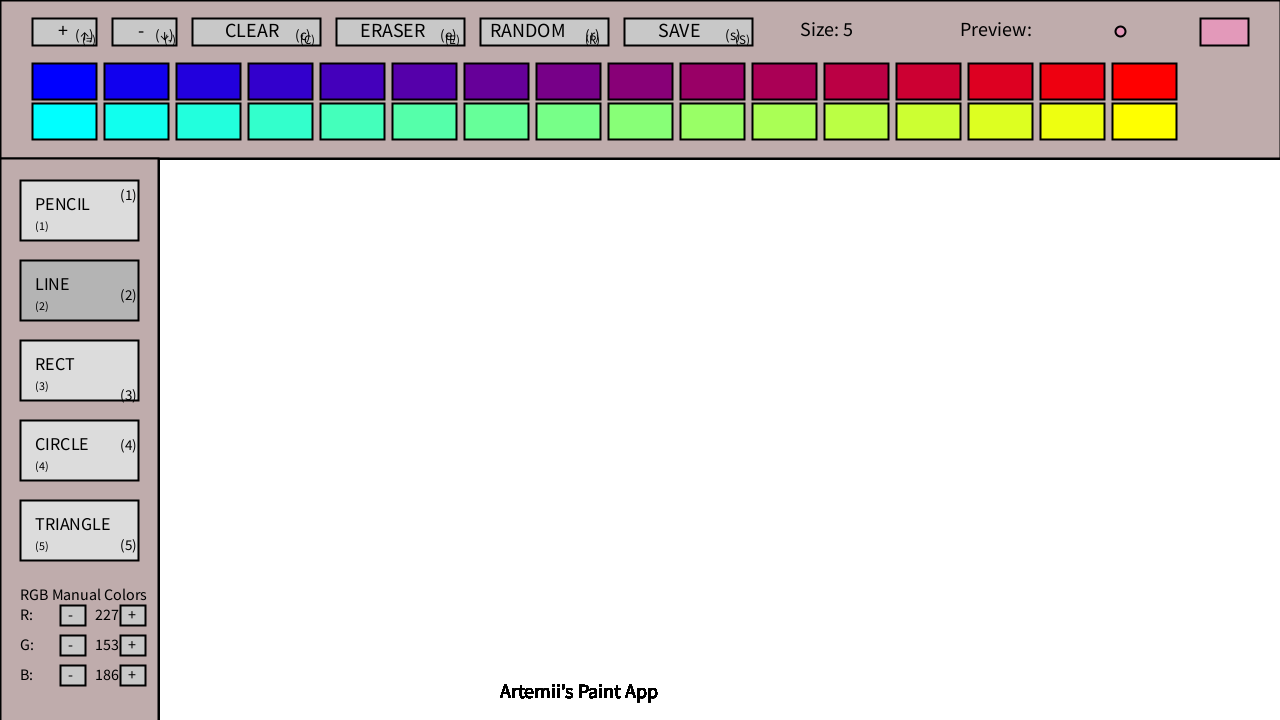
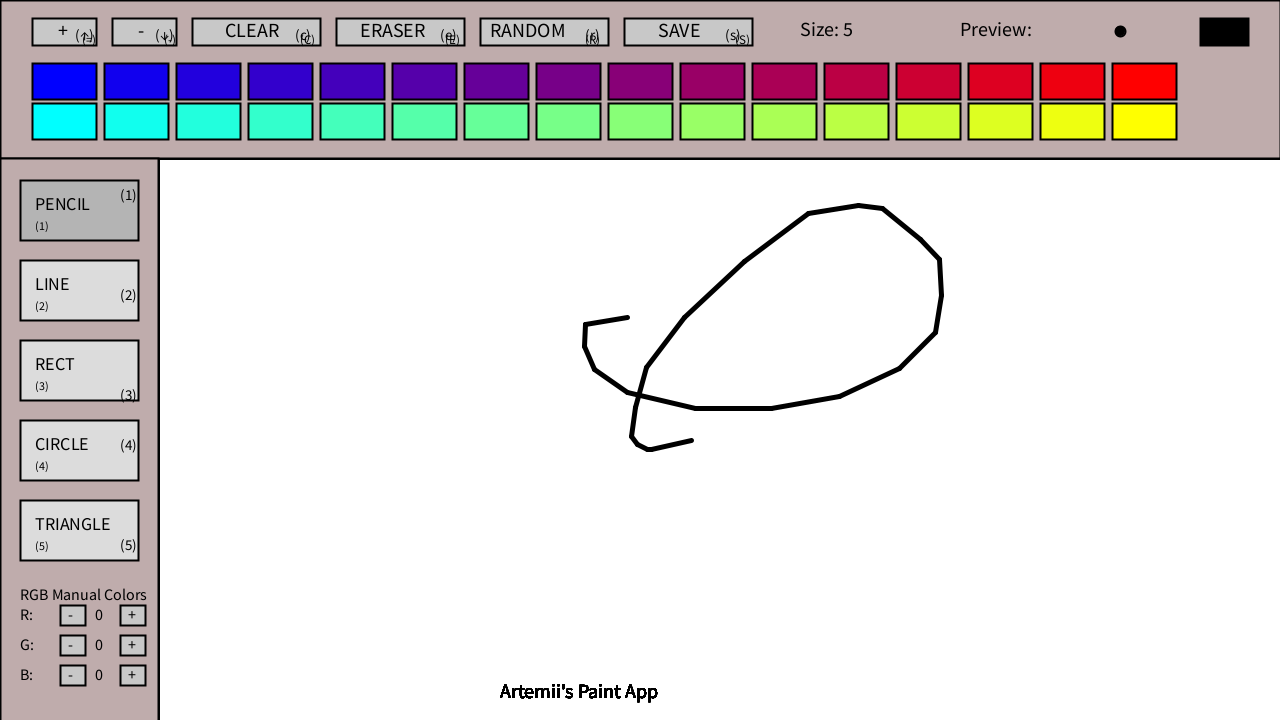
cw

diff --git a/Battleship3.py b/Battleship3.py
@@ -1,0 +1,62 @@
+from gridNdot import *
+'''
+Use the following program to play the THIRD round of transformation Battle Ship!
+
+1. You may ONLY CHANGE the values in translate().
+2. Now the translate for each shape is between a push() and pop()- this pushes a
+transformation through, and pops the origin back to (0,0) so the next translation
+can start fresh. You can adjust the code to decide what is included in each push()
+and pop()
+3. Once you've changed the translate values, hit play and let your partner know
+you're ready.
+4. Take turns guessing coordinates where you think the vertex of the shape
+(or center of an ellipse) is on your partner's canvas.
+5. If you guess a point from your partner, hold the shift key and click the
+coordinate to leave a blue dot so you remember the point you found.
+6. If your partner guesses correctly, say HIT. If they guess
+incorrectly, say MISS. If they are on the shape but not on a vertex, tell them
+they're close!
+7. If you click a point, it will leave a red dot so you know they
+found it.
+'''
+
+def setup():
+    size(400,400)
+    background(220)
+
+def draw():
+    no_stroke()
+    text(str(mouse_x) + ", " + str(mouse_y), 20, 20)
+    
+    draw_grid()
+    draw_dot()
+    
+  
+    no_fill()
+    stroke(0)
+    stroke_weight(3)
+    
+    push_style()
+    translate(0,0);
+    ellipse(60,60,60,60)
+    pop_style()
+    
+    push_style()
+    translate(0,0);
+    rect(140,50,80,40)
+    pop_style()
+    
+    push_style()
+    translate(0,0);
+    rect(180,160,120,120)
+    pop_style()
+    
+    push_style()
+    translate(0,0);
+    triangle(100,180,40,240,140,220)
+    pop_style()
+    
+    push_style()
+    translate(0,0);
+    quad(260,120,280,80,340,80,342,140)
+    pop_style()

diff --git a/Battleship2.py b/Battleship2.py
@@ -1,0 +1,46 @@
+from gridNdot import *
+'''
+Use the following program to play the SECOND round of translation Battle Ship!
+
+1. You may ONLY CHANGE the values in translate().
+2. There is now a translate for each shape, and the values are CUMULATIVE,
+meaning they will add up for one super translation!
+3. Once you've changed the translate values, hit play and let your partner know you're ready.
+4. Take turns guessing coordinates where you think the vertex of the shape
+(or center of an ellipse) is on your partner's canvas.
+5. If you guess a point from your partner, hold the shift key and click the coordinate
+to leave a blue dot so you remember the point you found.
+6. If your partner guesses correctly, say HIT. If they guess incorrectly,
+say MISS. If they are on the shape but not on a vertex, tell them they're close!
+7. If you click a point, it will leave a red dot so you know they found it.
+'''
+
+def setup():
+    size(400,400)
+    background(220)
+
+def draw():
+    no_stroke()
+    text(str(mouse_x) + ", " + str(mouse_y), 20, 20)
+    
+    draw_grid()
+    draw_dot()
+    
+    no_fill()
+    stroke(0)
+    stroke_weight(3)
+    
+    translate(0,0);
+    ellipse(60,60,60,60)
+    
+    translate(0,0);
+    rect(140,50,80,40)
+    
+    translate(0,0);
+    rect(180,160,120,120)
+    
+    translate(0,0);
+    triangle(100,180,40,240,140,220)
+    
+    translate(0,0);
+    quad(260,120,280,80,340,80,342,140)

diff --git a/Battleship1.py b/Battleship1.py
@@ -1,0 +1,38 @@
+from gridNdot import *
+'''
+Use the following program to play the first round of translation Battle Ship!
+
+1. You may ONLY CHANGE the values in translate().
+2. (nothing - here for consistency)
+3. Once you've changed the translate values, hit play and let your partner
+know you're ready.
+4. Take turns guessing coordinates where you think the vertex of the shape
+(or center of an ellipse) is on your partner's canvas.
+5. If you guess a point from your partner, hold the shift key and click the
+coordinate to leave a blue dot so you remember the point you found.
+6. If your partner guesses correctly, say HIT. If they guess incorrectly,
+say MISS. If they are on the shape but not on a vertex, tell them they're close!
+7. If you click a point without holding any keys, it will leave a red dot so you
+know they found it.
+'''
+def setup():
+    size(400,400)
+    background(220)
+
+def draw():
+    no_stroke()
+    text(str(mouse_x) + ", " + str(mouse_y), 20, 20)
+    
+    draw_grid()
+    draw_dot()
+    
+    translate(10,67);
+  
+    no_fill()
+    stroke(0)
+    stroke_weight(3)
+    ellipse(60,60,60,60)
+    rect(140,50,80,40)
+    rect(180,160,120,120)
+    triangle(100,180,40,240,140,220)
+    quad(260,120,280,80,340,80,342,140)

diff --git a/gridNdot.py b/gridNdot.py
@@ -1,0 +1,36 @@
+# PY5 IMPORTED MODE CODE
+def draw_grid():
+  push_style()
+  translate(0,0)
+  fill(220)
+  stroke_weight(0)
+  rect(0, 0, 80, 40)
+  fill(0)
+  stroke_weight(1)
+  text(str(mouse_x) + " , " + str(mouse_y), 20, 20)
+  stroke_weight(1)
+  stroke(0)
+  
+  for x in range(0, width, 20):
+    line(x, 0, x, height)
+  
+  for y in range(0, height, 20):
+    line(0, y, width, y)
+  
+  no_fill()
+  pop_style()
+
+def draw_dot():
+  push_style()
+  translate(0,0)
+  stroke_weight(3)
+  if is_mouse_pressed:
+    if is_key_pressed:
+      if key == chr(65535): #shift key
+        stroke(0,0,255)
+        ellipse(mouse_x,mouse_y, 5, 5)
+    else:
+      stroke(255,0,0)
+      ellipse(mouse_x,mouse_y,5,5)
+  no_stroke()
+  pop_style()

diff --git a/Game.py b/Game.py
@@ -1,0 +1,21 @@
+def setup():
+    size(400,400)
+    
+def draw():
+    fill(255, 0, 0)
+    push_matrix()
+    translate(50,50)
+    rect(0,0,100,100)
+    pop_matrix()
+    
+    fill(0,255,0)
+    push_matrix()
+    translate(250,150)
+    rect(0,0,100,100)
+    pop_matrix()
+
+    fill(0,0,255)
+    push_matrix()
+    translate(140,280)
+    rect(0,0,100,100)
+    pop_matrix()
